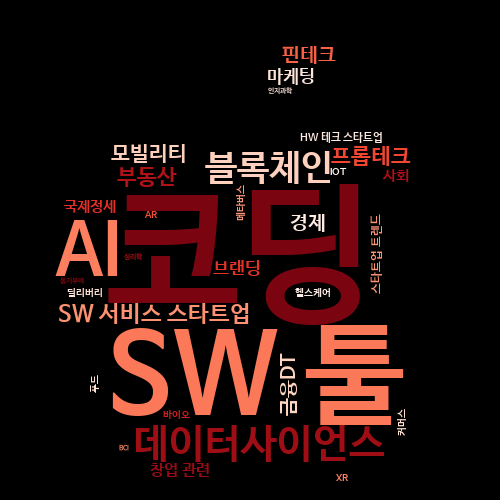
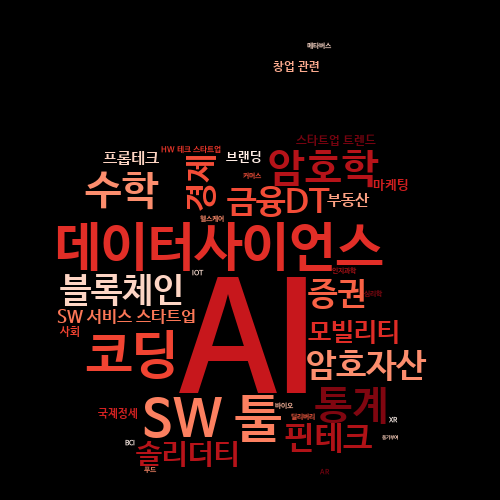
크롤링 코드 수정

Changed region(s): [[0.09, 0.24, 0.87, 0.96], [0.54, 0.06, 0.69, 0.21]]

diff --git a/cloudmaker1.py b/cloudmaker1.py
@@ -1,33 +1,23 @@
 from selenium import webdriver
-from selenium.webdriver.common.by import By
-from selenium.webdriver.chrome.service import Service as ChromeService
-import time
+from selenium.webdriver.chrome.service import Service
+from webdriver_manager.chrome import ChromeDriverManager
 from bs4 import BeautifulSoup
+import time
 from collections import Counter
 
-options = webdriver.ChromeOptions()
-options.add_experimental_option("excludeSwitches", ["enable-automation"])
-options.add_experimental_option("useAutomationExtension", False)
-CHROMEDRIVER_PATH = './chromedriver.exe'
-service = ChromeService(executable_path=CHROMEDRIVER_PATH)
-
-driver = webdriver.Chrome(service=service, options=options)
-
-delay = 0.1
-
-url = 'https://getliner.com/feeds/user/7203684?shareOption=profile'
-
+driver = webdriver.Chrome(service=Service(ChromeDriverManager().install()))
+url = 'https://getliner.com/user-profile/7203684' # 지속적으로 url 바뀌는 거 확인
 driver.get(url)
 
 time.sleep(1)
 
 html = driver.page_source
 soup = BeautifulSoup(html, 'html.parser')
-sec = soup.select_one('section.css-0')
-titles = sec.select('div.css-w3af2n > h2.css-o7qmg8')
-contents = sec.select('div.css-w3af2n > section > section > div > section > div > div > div > p')
+sec = soup.select_one('section.css-146yy6b') # 지속적으로 sec 바뀌는 거 확인
+titles = [title.get_text() for title in sec.select('span.css-137vrda')]
+contents = [content.get_text() for content in sec.select('span.css-dtt6h1')]
 
-time.sleep(1)
+driver.quit()
 
 list=[]
 
@@ -36,14 +26,12 @@ from konlpy.tag import Okt
 okt=Okt()
 
 for title in titles:
-    line1 = title.get_text()
-    words = okt.nouns(line1)
+    words = okt.nouns(title)
     words2 = [n for n in words if len(n) > 1]
     list.extend(words2)
 
 for content in contents:
-    line2 = content.get_text()
-    words = okt.nouns(line2)
+    words = okt.nouns(content)
     words2 = [n for n in words if len(n) > 1]
     list.extend(words2)
 
@@ -66,7 +54,6 @@ remove_list=['버스']
 for unuse in remove_list:
     while unuse in list:
         list.remove(unuse)
-
 
 from wordcloud import WordCloud
 import matplotlib.pyplot as plt

diff --git a/cloudmaker2.py b/cloudmaker2.py
@@ -1,30 +1,20 @@
 from selenium import webdriver
-from selenium.webdriver.common.by import By
-from selenium.webdriver.chrome.service import Service as ChromeService
+from selenium.webdriver.chrome.service import Service
+from webdriver_manager.chrome import ChromeDriverManager
 import time
 from bs4 import BeautifulSoup
-from collections import Counter
 
-options = webdriver.ChromeOptions()
-options.add_experimental_option("excludeSwitches", ["enable-automation"])
-options.add_experimental_option("useAutomationExtension", False)
-CHROMEDRIVER_PATH = './chromedriver.exe'
-service = ChromeService(executable_path=CHROMEDRIVER_PATH)
-
-driver = webdriver.Chrome(service=service, options=options)
-
-delay=0.1
-
-url = 'https://getliner.com/feeds/user/7203684?shareOption=profile'
-
+driver = webdriver.Chrome(service=Service(ChromeDriverManager().install()))
+url = 'https://getliner.com/user-profile/7203684' # 지속적으로 url 바뀌는 거 확인
 driver.get(url)
 
 time.sleep(1)
 
 html = driver.page_source
 soup = BeautifulSoup(html, 'html.parser')
-sec = soup.select_one('section.css-14vqkrf')
-tags = sec.select('ul.css-oediup > ul > li')
+sec = soup.select_one('section.css-auc73u')
+tags = sec.select('li.css-zr54ay')
+driver.quit()
 
 import re
 
@@ -37,7 +27,7 @@ for tag in tags:
     # {"id":7382319,"name":"헬스케어 스타트업","emoji":null,"order":13,"status":"normal","description":"","openState":"public","hashKey":"NzM4MjMxOQ==","savedPageCount":1,"viewCount":0}
     # => 정규표현식으로 해결해보자!
     name = re.findall('"name":"(.*?)",', attr)[0]
-    page = re.findall('"savedPageCount":(.*?),', attr)[0]
+    page = re.findall('"savedPageCount":(.*?)}', attr)[0]
     page = int(page)
     split_str = ', '
     if split_str in name:

diff --git a/cloudmaker1_mac.py b/cloudmaker1_mac.py
@@ -8,7 +8,6 @@ from PIL import Image
 from selenium import webdriver
 from selenium.webdriver.chrome.service import Service
 from webdriver_manager.chrome import ChromeDriverManager
-
 from wordcloud import WordCloud
 
 #파이썬 인터프리터 설정: shift+command+p => /usr/bin/python3 => Python 3.9.6 64-bit
@@ -24,10 +23,6 @@ RANDOM_STATE = 43
 
 # Initialize Chrome driver
 options = webdriver.ChromeOptions()
-# options.add_argument('headless')
-# options.add_argument('window-size=1920x1080')
-# options.add_argument("disable-gpu")
-# driver = webdriver.Chrome('chromedriver', chrome_options=options)
 driver = webdriver.Chrome(service=Service(ChromeDriverManager().install()))
 
 # Open URL
